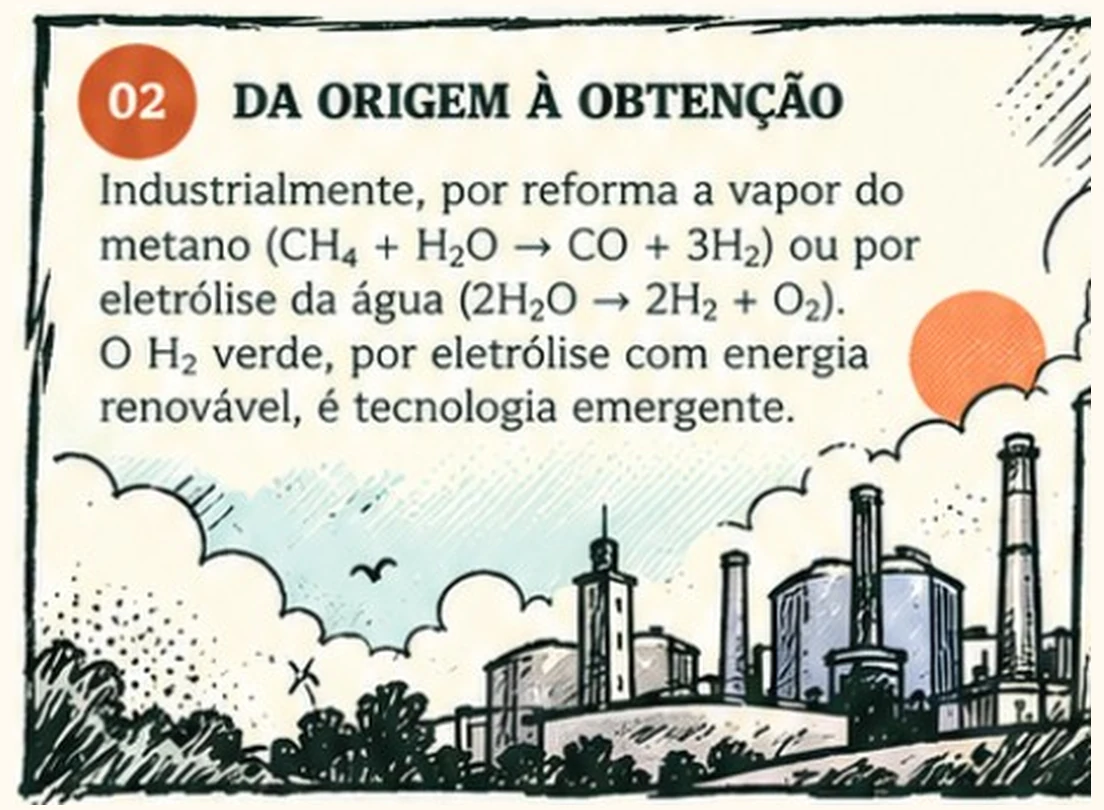
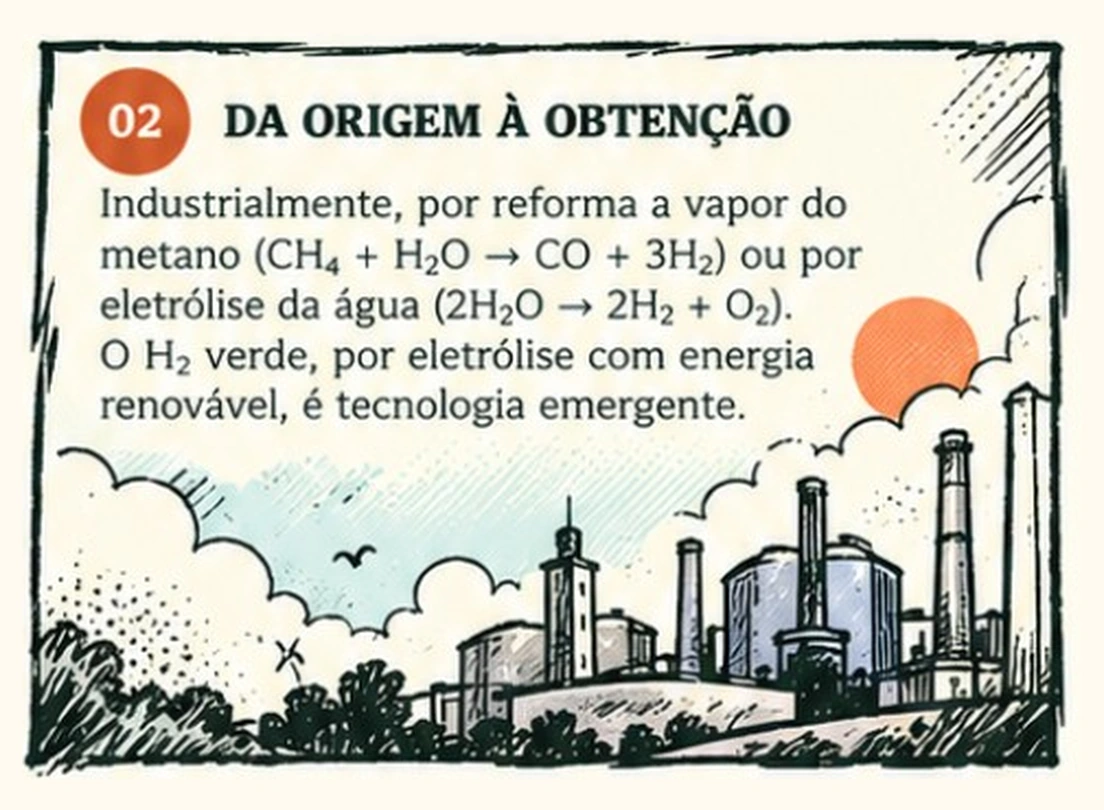
fix(folheto-001): recuperar borda direita completa do quadro 02

diff --git a/assets/element-page.css b/assets/element-page.css
@@ -713,16 +713,6 @@ body.element-page[data-palette=blueyellow] .ep-state img,body.element-page[data-
   }
 }
 
-/* Hidrogênio 001 — correção óptica localizada da segunda vinheta.
- * No asset original 02, a moldura começava ~30 px antes e terminava ~31 px
- * depois da primeira. A normalização vertical conserva todo o conteúdo,
- * mantendo a borda superior e inferior alinhadas na impressão A4.
- * Esta regra não se aplica ao quadro 01 nem ao Lítio homologado.
- */
-@media print {
-  .ep-print-sheet[data-element="001"][data-print-phase="piloto-quadros-integrais"]
-  .ep-print-story:nth-child(2) .ep-print-approved-art {
-    transform:scaleY(.922)!important;
-    transform-origin:center center!important;
-  }
-}
+/* Hidrogênio 001 — quadro 02 corrigido diretamente na arte integral.
+ * Não reduzir, deslocar ou distorcer a segunda vinheta por CSS.
+ * A borda direita completa agora faz parte do arquivo 001-02.webp. */

diff --git a/assets/element-page.js b/assets/element-page.js
@@ -199,7 +199,7 @@
         figure.className='ep-print-approved-art';
         figure.alt='';
         figure.loading='eager';figure.decoding='sync';
-        figure.src='../../assets/folhetos/cenas/001-0'+(i+1)+'.webp?fit=full-border-h001-v1';
+        figure.src='../../assets/folhetos/cenas/001-0'+(i+1)+'.webp?fit='+(i===1?'full-border-h001-v2-right-intact':'full-border-h001-v1');
         figure.addEventListener('load',()=>{
           if(figure.naturalWidth>0){
             slot.replaceChildren(figure);

diff --git a/sw.js b/sw.js
@@ -1,4 +1,4 @@
-const CACHE='cordel-varal-v30-hidrogenio-quadro02-alinhado';
+const CACHE='cordel-varal-v31-hidrogenio-001-borda-direita-completa';
 const ROOT=new URL('./',self.location.href).href;
 // Critical UI files must be revalidated online, not served indefinitely from
 // an older app-shell cache. Offline fallback keeps the PWA usable.
